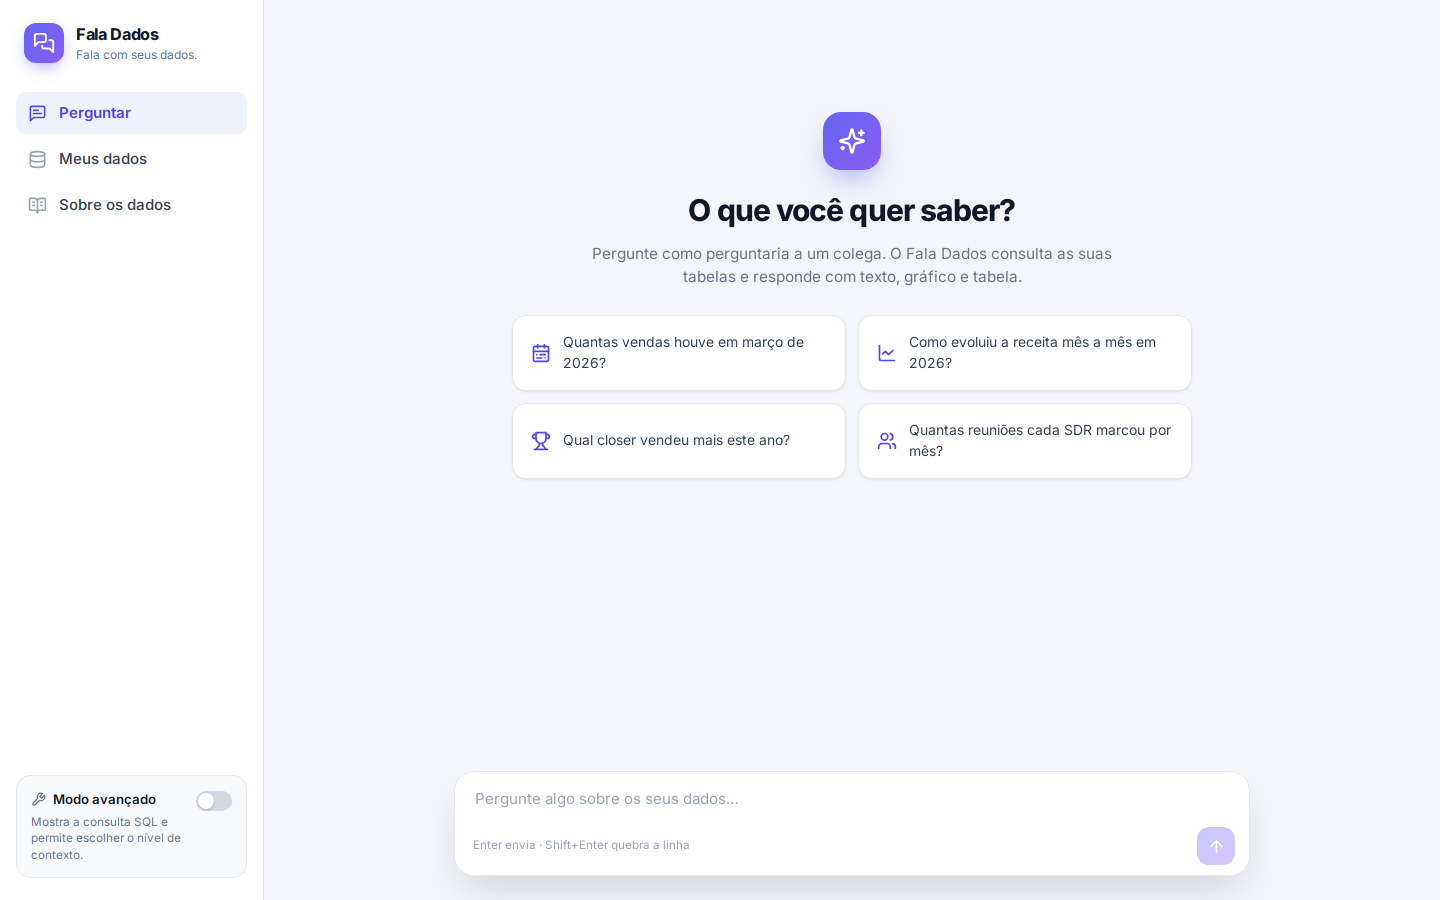
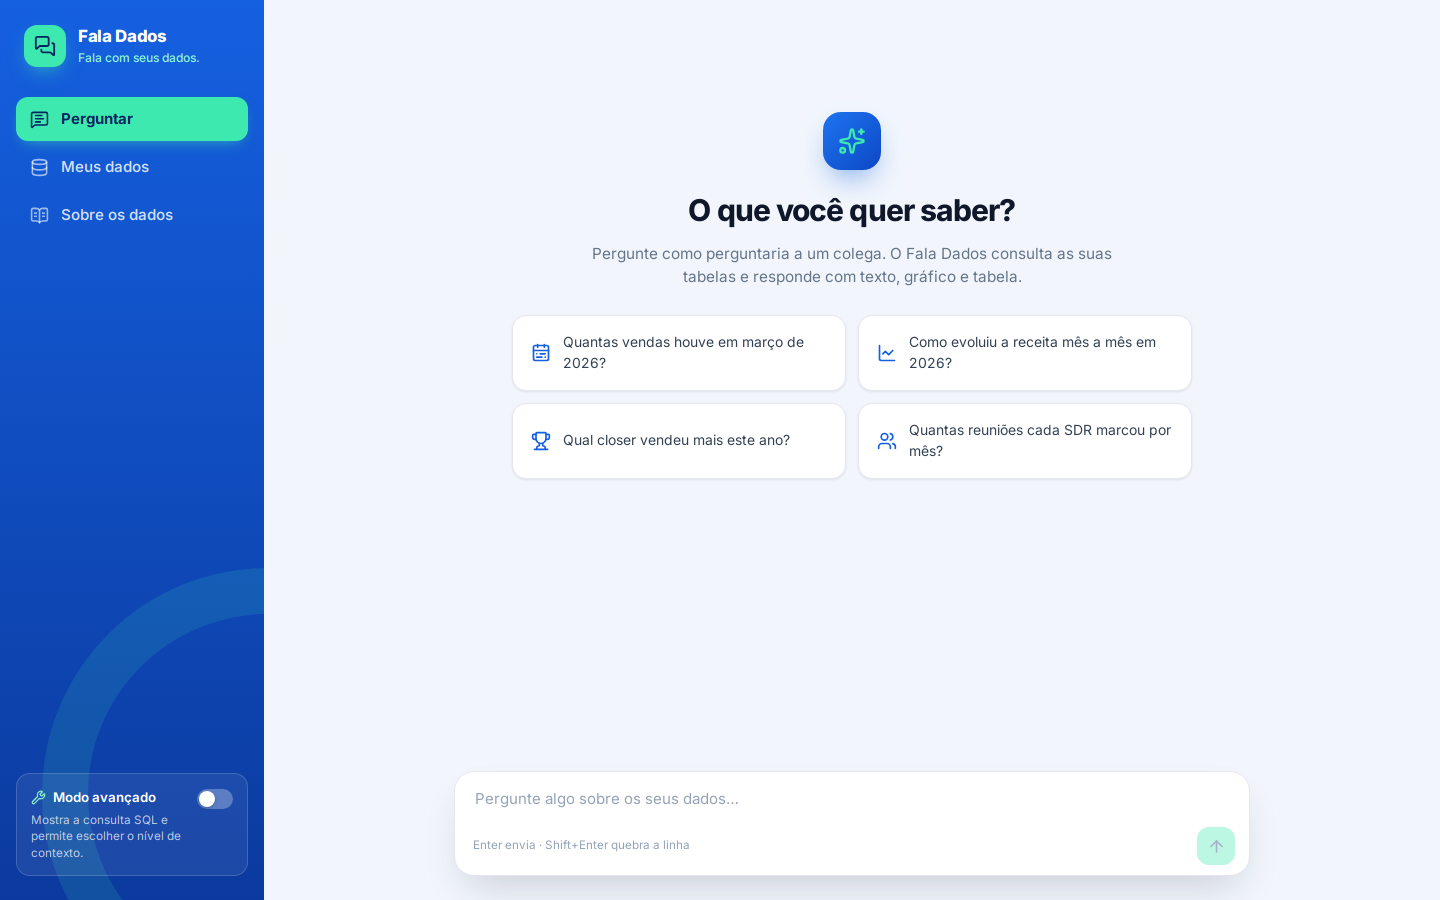
style: paleta azul e menta
- tokens da interface trocados de índigo para azul (marca) e menta
  (destaques e ações), todos em variáveis de estilo.css
- barra lateral em azul profundo com arco decorativo em menta; item
  ativo, logo e botões de ação em menta com texto azul-noite
- barra de progresso do contexto em degradê azul → menta
- capturas de docs/capturas atualizadas

diff --git a/frontend/src/App.vue b/frontend/src/App.vue
@@ -87,8 +87,8 @@ watch(avancado, (v) => gravar("fala-dados:avancado", v ? "sim" : "nao"));
   display: grid;
   grid-template-columns: 264px 1fr;
   min-height: 100vh;
-  /* fundo branco da barra lateral até o fim da página, mesmo em páginas longas */
-  background: linear-gradient(to right, var(--superficie) 263px, var(--borda) 263px, var(--borda) 264px, transparent 264px);
+  /* fundo azul da barra lateral até o fim da página, mesmo em páginas longas */
+  background: linear-gradient(to right, var(--azul-profundo) 264px, transparent 264px);
 }
 
 .lateral {
@@ -97,47 +97,63 @@ watch(avancado, (v) => gravar("fala-dados:avancado", v ? "sim" : "nao"));
   height: 100vh;
   display: flex;
   flex-direction: column;
-  gap: 28px;
-  padding: 22px 16px;
-  background: var(--superficie);
-  border-right: 1px solid var(--borda);
+  gap: 30px;
+  padding: 24px 16px;
+  background: var(--degrade-lateral);
+  color: #fff;
+  overflow: hidden;
 }
+/* arco decorativo em menta, ao fundo */
+.lateral::before {
+  content: "";
+  position: absolute;
+  width: 360px;
+  height: 360px;
+  right: -230px;
+  bottom: -120px;
+  border-radius: 50%;
+  border: 46px solid rgba(62, 233, 176, 0.13);
+  pointer-events: none;
+}
+.lateral > * { position: relative; }
+
 .marca { display: flex; align-items: center; gap: 12px; padding: 0 8px; }
 .logo {
-  width: 40px;
-  height: 40px;
-  border-radius: 12px;
+  width: 42px;
+  height: 42px;
+  border-radius: 13px;
   display: grid;
   place-items: center;
-  background: var(--degrade);
-  color: #fff;
-  box-shadow: 0 6px 16px -4px rgba(99, 102, 241, 0.55);
+  background: var(--menta);
+  color: var(--azul-noite);
+  box-shadow: 0 8px 20px -6px rgba(62, 233, 176, 0.6);
 }
 .logo svg { width: 22px; height: 22px; }
-.nome { font-weight: 750; font-size: 1.08rem; letter-spacing: -0.02em; }
-.slogan { font-size: 0.8rem; color: var(--suave); }
+.nome { font-weight: 800; font-size: 1.12rem; letter-spacing: -0.02em; color: #fff; }
+.slogan { font-size: 0.8rem; color: var(--menta-clara); font-weight: 500; }
 
 nav { display: flex; flex-direction: column; gap: 4px; }
 .item {
   display: flex;
   align-items: center;
   gap: 12px;
-  height: 42px;
-  padding: 0 12px;
+  height: 44px;
+  padding: 0 14px;
   border: none;
-  border-radius: 10px;
+  border-radius: 12px;
   background: transparent;
-  color: var(--texto-2);
+  color: rgba(255, 255, 255, 0.82);
   font: inherit;
-  font-weight: 520;
+  font-weight: 540;
   cursor: pointer;
   text-align: left;
   transition: background 0.15s, color 0.15s;
 }
-.item svg { width: 19px; height: 19px; color: var(--muito-suave); transition: color 0.15s; }
-.item:hover { background: var(--superficie-2); }
-.item.ativo { background: var(--primaria-50); color: var(--primaria); font-weight: 620; }
-.item.ativo svg { color: var(--primaria); }
+.item svg { width: 19px; height: 19px; color: rgba(255, 255, 255, 0.6); transition: color 0.15s; }
+.item:hover { background: rgba(255, 255, 255, 0.1); color: #fff; }
+.item:focus-visible { outline: 2px solid var(--menta); outline-offset: 2px; }
+.item.ativo { background: var(--menta); color: var(--azul-noite); font-weight: 680; box-shadow: 0 6px 16px -8px rgba(62, 233, 176, 0.8); }
+.item.ativo svg { color: var(--azul-noite); }
 
 .avancado {
   position: relative;
@@ -146,23 +162,24 @@ nav { display: flex; flex-direction: column; gap: 4px; }
   align-items: flex-start;
   padding: 14px;
   border-radius: 14px;
-  border: 1px solid var(--borda);
-  background: var(--superficie-2);
+  border: 1px solid rgba(255, 255, 255, 0.16);
+  background: rgba(255, 255, 255, 0.07);
   cursor: pointer;
   transition: border-color 0.15s, background 0.15s;
 }
-.avancado.ligado { border-color: var(--primaria-100); background: var(--primaria-50); }
+.avancado:hover { background: rgba(255, 255, 255, 0.11); }
+.avancado.ligado { border-color: rgba(62, 233, 176, 0.5); background: rgba(62, 233, 176, 0.12); }
 .avancado-texto { flex: 1; }
-.linha-titulo { display: flex; align-items: center; gap: 7px; font-weight: 600; font-size: 0.88rem; }
-.linha-titulo svg { width: 15px; height: 15px; color: var(--suave); }
-.descricao { font-size: 0.78rem; color: var(--suave); margin-top: 4px; line-height: 1.4; }
+.linha-titulo { display: flex; align-items: center; gap: 7px; font-weight: 620; font-size: 0.88rem; color: #fff; }
+.linha-titulo svg { width: 15px; height: 15px; color: var(--menta-clara); }
+.descricao { font-size: 0.78rem; color: rgba(255, 255, 255, 0.72); margin-top: 4px; line-height: 1.4; }
 .avancado input { position: absolute; opacity: 0; pointer-events: none; }
 .chave {
   flex-shrink: 0;
   width: 36px;
   height: 20px;
   border-radius: 999px;
-  background: var(--borda-forte);
+  background: rgba(255, 255, 255, 0.28);
   position: relative;
   transition: background 0.2s;
   margin-top: 1px;
@@ -176,12 +193,12 @@ nav { display: flex; flex-direction: column; gap: 4px; }
   height: 16px;
   border-radius: 50%;
   background: #fff;
-  box-shadow: 0 1px 3px rgba(0, 0, 0, 0.2);
+  box-shadow: 0 1px 3px rgba(0, 0, 0, 0.25);
   transition: transform 0.2s;
 }
-.avancado input:checked + .chave { background: var(--primaria); }
-.avancado input:checked + .chave::after { transform: translateX(16px); }
-.avancado input:focus-visible + .chave { box-shadow: var(--foco); }
+.avancado input:checked + .chave { background: var(--menta); }
+.avancado input:checked + .chave::after { transform: translateX(16px); background: var(--azul-noite); }
+.avancado input:focus-visible + .chave { box-shadow: 0 0 0 3px rgba(62, 233, 176, 0.45); }
 
 .conteudo { min-width: 0; }
 

diff --git a/frontend/src/estilo.css b/frontend/src/estilo.css
@@ -2,7 +2,7 @@
 
 /* ------------------------------------------------------------------ tokens */
 :root {
-  --fundo: #f4f5fa;
+  --fundo: #f2f6fc;
   --superficie: #ffffff;
   --superficie-2: #f8f9fc;
   --borda: #e5e7ef;
@@ -13,11 +13,27 @@
   --suave: #64748b;
   --muito-suave: #94a3b8;
 
-  --primaria: #4f46e5;
-  --primaria-escura: #4338ca;
-  --primaria-50: #eef2ff;
-  --primaria-100: #e0e7ff;
-  --degrade: linear-gradient(135deg, #6366f1 0%, #8b5cf6 100%);
+  /* azul (marca) */
+  --primaria: #1560e0;
+  --primaria-escura: #0d47c4;
+  --primaria-50: #eaf2ff;
+  --primaria-100: #d3e4ff;
+  --azul-profundo: #0b3a9e;
+  --azul-noite: #08245f;
+  --degrade: linear-gradient(135deg, #1e74f0 0%, #0d47c4 100%);
+  --degrade-lateral: linear-gradient(180deg, #1560e0 0%, #0b3a9e 100%);
+
+  /* menta (destaques e ações) */
+  --menta: #3ee9b0;
+  --menta-clara: #8ff5d2;
+  --menta-50: #e7fcf4;
+  --menta-texto: #087a55; /* menta escura para texto sobre branco */
+  --degrade-progresso: linear-gradient(90deg, #1560e0 0%, #3ee9b0 100%);
+
+  --borda-foco: #8db8f7;
+  --sombra-azul: 0 6px 16px -6px rgba(21, 96, 224, 0.55);
+  --sombra-menta: 0 6px 16px -6px rgba(16, 185, 129, 0.55);
+  --linha-hover: #f6f9ff;
 
   --verde: #059669;
   --verde-50: #ecfdf5;
@@ -33,7 +49,7 @@
   --sombra-sm: 0 1px 2px rgba(15, 23, 42, 0.04), 0 1px 3px rgba(15, 23, 42, 0.06);
   --sombra: 0 4px 12px -2px rgba(15, 23, 42, 0.06), 0 2px 4px -2px rgba(15, 23, 42, 0.04);
   --sombra-lg: 0 20px 40px -12px rgba(15, 23, 42, 0.18);
-  --foco: 0 0 0 4px rgba(99, 102, 241, 0.16);
+  --foco: 0 0 0 4px rgba(21, 96, 224, 0.16);
 
   font-family: "Inter Variable", "Segoe UI", system-ui, -apple-system, sans-serif;
   font-feature-settings: "cv11", "ss01";
@@ -48,7 +64,7 @@
 body { margin: 0; background: var(--fundo); }
 h1, h2, h3, h4 { margin: 0; letter-spacing: -0.015em; color: var(--texto); }
 p { margin: 0; }
-::selection { background: var(--primaria-100); }
+::selection { background: var(--menta-clara); }
 
 /* ------------------------------------------------------------------ botões */
 .botao {
@@ -76,12 +92,13 @@ p { margin: 0; }
 .botao svg { width: 17px; height: 17px; flex-shrink: 0; }
 
 .botao.primario {
-  background: var(--primaria);
-  border-color: var(--primaria);
-  color: #fff;
-  box-shadow: 0 1px 2px rgba(79, 70, 229, 0.3), inset 0 1px 0 rgba(255, 255, 255, 0.12);
+  background: var(--menta);
+  border-color: var(--menta);
+  color: var(--azul-noite);
+  font-weight: 650;
+  box-shadow: var(--sombra-menta), inset 0 1px 0 rgba(255, 255, 255, 0.35);
 }
-.botao.primario:hover:not(:disabled) { background: var(--primaria-escura); border-color: var(--primaria-escura); }
+.botao.primario:hover:not(:disabled) { background: #2fdca2; border-color: #2fdca2; color: var(--azul-noite); }
 .botao.fantasma { border-color: transparent; background: transparent; color: var(--suave); }
 .botao.fantasma:hover:not(:disabled) { background: var(--superficie-2); color: var(--texto); }
 .botao.perigo:hover:not(:disabled) { color: var(--vermelho); background: var(--vermelho-50); border-color: transparent; }
@@ -102,7 +119,7 @@ p { margin: 0; }
 }
 .campo::placeholder { color: var(--muito-suave); }
 .campo:hover { border-color: var(--borda-forte); }
-.campo:focus { outline: none; border-color: #a5b4fc; box-shadow: var(--foco); }
+.campo:focus { outline: none; border-color: var(--borda-foco); box-shadow: var(--foco); }
 textarea.campo { resize: vertical; line-height: 1.5; }
 select.campo { cursor: pointer; }
 
@@ -141,7 +158,7 @@ select.campo { cursor: pointer; }
 }
 .selo svg { width: 13px; height: 13px; }
 .selo.primario { background: var(--primaria-50); color: var(--primaria); border-color: var(--primaria-100); }
-.selo.verde { background: var(--verde-50); color: var(--verde); border-color: #a7f3d0; }
+.selo.verde { background: var(--menta-50); color: var(--menta-texto); border-color: var(--menta-clara); }
 .selo.ambar { background: var(--ambar-50); color: var(--ambar); border-color: var(--ambar-borda); }
 .selo.vermelho { background: var(--vermelho-50); color: var(--vermelho); border-color: #fecaca; }
 
@@ -185,7 +202,7 @@ table.tabela th {
 }
 table.tabela td { padding: 9px 14px; border-bottom: 1px solid #f0f2f7; color: var(--texto-2); white-space: nowrap; }
 table.tabela tr:last-child td { border-bottom: none; }
-table.tabela tbody tr:hover td { background: #fafbff; }
+table.tabela tbody tr:hover td { background: var(--linha-hover); }
 table.tabela .num { text-align: right; font-variant-numeric: tabular-nums; }
 table.tabela .nulo { color: var(--muito-suave); }
 

diff --git a/frontend/src/components/TelaConversa.vue b/frontend/src/components/TelaConversa.vue
@@ -151,9 +151,9 @@ function aoTeclar(evento) {
   place-items: center;
   background: var(--degrade);
   color: #fff;
-  box-shadow: 0 14px 30px -10px rgba(99, 102, 241, 0.65);
+  box-shadow: 0 14px 30px -10px rgba(21, 96, 224, 0.6);
 }
-.selo-icone svg { width: 28px; height: 28px; }
+.selo-icone svg { width: 28px; height: 28px; color: var(--menta); }
 
 .sugestoes { display: grid; grid-template-columns: repeat(2, minmax(0, 1fr)); gap: 12px; width: 100%; max-width: 680px; }
 .sugestao {
@@ -172,7 +172,7 @@ function aoTeclar(evento) {
   cursor: pointer;
   transition: border-color 0.15s, box-shadow 0.15s, transform 0.15s;
 }
-.sugestao:hover { border-color: #c7d2fe; box-shadow: var(--sombra); transform: translateY(-1px); }
+.sugestao:hover { border-color: var(--borda-foco); box-shadow: var(--sombra); transform: translateY(-1px); }
 .sugestao svg { width: 20px; height: 20px; color: var(--primaria); flex-shrink: 0; }
 
 .compositor {
@@ -189,7 +189,7 @@ function aoTeclar(evento) {
   box-shadow: var(--sombra-lg);
   transition: border-color 0.15s, box-shadow 0.15s;
 }
-.caixa:focus-within { border-color: #a5b4fc; box-shadow: var(--sombra-lg), var(--foco); }
+.caixa:focus-within { border-color: var(--borda-foco); box-shadow: var(--sombra-lg), var(--foco); }
 .caixa.desativada { opacity: 0.6; }
 .caixa textarea {
   width: 100%;
@@ -224,10 +224,10 @@ function aoTeclar(evento) {
   border: none;
   display: grid;
   place-items: center;
-  color: #fff;
-  background: var(--degrade);
+  color: var(--azul-noite);
+  background: var(--menta);
   cursor: pointer;
-  box-shadow: 0 6px 14px -6px rgba(99, 102, 241, 0.8);
+  box-shadow: var(--sombra-menta);
   transition: opacity 0.15s, transform 0.1s;
 }
 .enviar:disabled { opacity: 0.35; cursor: not-allowed; box-shadow: none; }

diff --git a/frontend/src/components/TelaContexto.vue b/frontend/src/components/TelaContexto.vue
@@ -284,7 +284,7 @@ async function removerRegra(regra) {
 .progresso-titulo .ok { width: 18px; height: 18px; color: var(--verde); }
 .porcentagem { font-size: 1.6rem; font-weight: 750; letter-spacing: -0.02em; color: var(--primaria); font-variant-numeric: tabular-nums; }
 .barra { margin-top: 12px; height: 8px; border-radius: 999px; background: var(--superficie-2); border: 1px solid var(--borda); overflow: hidden; }
-.preenchimento { height: 100%; border-radius: 999px; background: var(--degrade); transition: width 0.4s ease; }
+.preenchimento { height: 100%; border-radius: 999px; background: var(--degrade-progresso); transition: width 0.4s ease; }
 .hash { margin-top: 10px; }
 .hash code { font-size: 0.85em; background: var(--superficie-2); padding: 2px 6px; border-radius: 5px; }
 
@@ -347,7 +347,7 @@ async function removerRegra(regra) {
   text-align: left;
   cursor: pointer;
 }
-.sanfona-topo:hover { background: #fcfcfe; }
+.sanfona-topo:hover { background: var(--linha-hover); }
 .sanfona-titulo { min-width: 0; }
 .sanfona-titulo h3 { font-size: 1rem; }
 .sanfona-titulo .pequeno { white-space: nowrap; overflow: hidden; text-overflow: ellipsis; max-width: 460px; }

diff --git a/frontend/src/components/RespostaCard.vue b/frontend/src/components/RespostaCard.vue
@@ -125,7 +125,7 @@ async function copiarSql() {
   background: var(--degrade);
   color: #fff;
   font-weight: 500;
-  box-shadow: 0 6px 18px -8px rgba(99, 102, 241, 0.7);
+  box-shadow: var(--sombra-azul);
 }
 
 .assistente { display: flex; gap: 14px; align-items: flex-start; }
@@ -136,9 +136,9 @@ async function copiarSql() {
   border-radius: 11px;
   display: grid;
   place-items: center;
-  background: var(--primaria-50);
-  color: var(--primaria);
-  border: 1px solid var(--primaria-100);
+  background: var(--azul-profundo);
+  color: var(--menta);
+  border: 1px solid var(--azul-profundo);
 }
 .avatar svg { width: 17px; height: 17px; }
 .corpo { flex: 1; min-width: 0; display: flex; flex-direction: column; gap: 14px; padding-top: 5px; }

diff --git a/frontend/src/components/GraficoPainel.vue b/frontend/src/components/GraficoPainel.vue
@@ -109,7 +109,7 @@ function opcao() {
     xAxis: horizontal.value ? eixoValor : eixoCategoria,
     yAxis: horizontal.value ? eixoCategoria : eixoValor,
     dataZoom: muitosPontos && !horizontal.value
-      ? [{ type: "inside" }, { type: "slider", height: 16, bottom: 4, borderColor: "transparent", fillerColor: "rgba(42,120,214,0.12)", showDetail: false }]
+      ? [{ type: "inside" }, { type: "slider", height: 16, bottom: 4, borderColor: "transparent", fillerColor: "rgba(21,96,224,0.12)", showDetail: false }]
       : [],
     series,
     animationDuration: 500,

diff --git a/frontend/src/components/TelaDados.vue b/frontend/src/components/TelaDados.vue
@@ -208,7 +208,7 @@ const amostraEmLinhas = (t) => t.amostra.map((l) => t.colunas.map((c) => l[c.nom
   text-align: center;
   transition: border-color 0.15s, background 0.15s;
 }
-.soltar:hover, .soltar.arrastando { border-color: #a5b4fc; background: #fafbff; }
+.soltar:hover, .soltar.arrastando { border-color: var(--borda-foco); background: var(--linha-hover); }
 .soltar.arrastando { transform: scale(1.005); }
 .soltar-icone {
   width: 52px;
